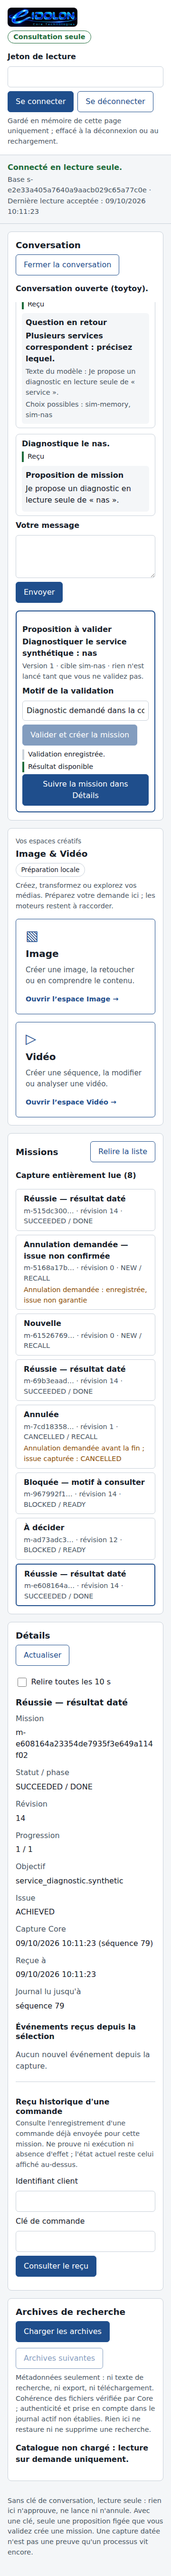
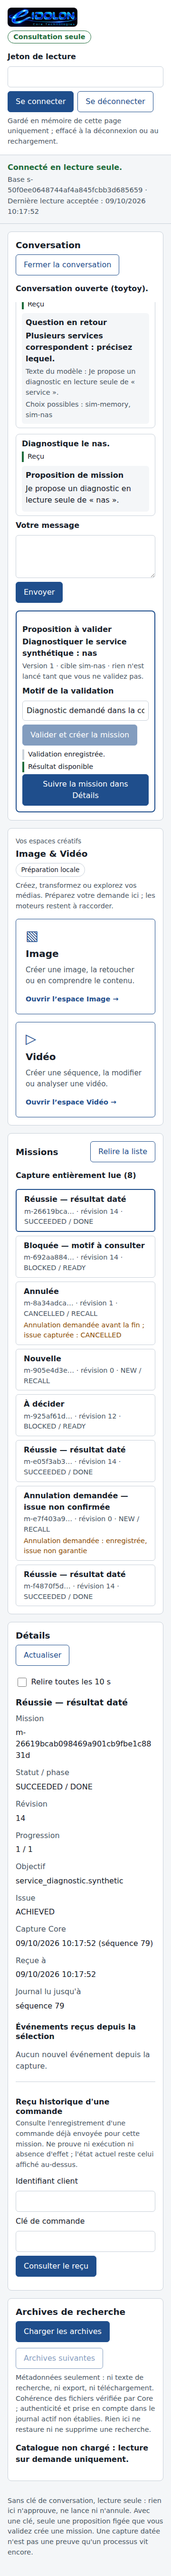
feat(http): mount conversation routes on the read server origin behind an explicit --conversations flag (authorized by Codex G113)
Off by default; existing Host/Origin/header/transfer/deadline/connection checks run first; the read
token is refused on conversation routes and the conversation key reads nothing; a single 100 000-byte
conversation body limit (8000 characters in any valid JSON encoding). 5 server tests; Chromium recipe
replayed on the repository code.

Claude-Session: https://claude.ai/code/session_01Rv89UzspoLREq2u9UkZssh

diff --git a/eidolon-core/tests/test_http_conversations.py b/eidolon-core/tests/test_http_conversations.py
@@ -1,0 +1,116 @@
+# ==========================================================
+# Projet      : Eidolon Core
+# Organisation: Eidolon Core Technologies (ECT)
+# Fichier     : test_http_conversations.py
+# Description : Montage des conversations sur le serveur de lecture : désactivé par défaut, jetons distincts (C-TASK-G088)
+# Standard    : Eidolon Presentation Standard v1
+# ==========================================================
+
+import http.client
+import json
+from pathlib import Path
+import secrets
+import tempfile
+import threading
+import unittest
+
+from eidolon_core import http_api
+from eidolon_core.client_credentials import ClientCredentials
+from eidolon_core.conversation_store import ConversationStore
+from eidolon_core.diagnostics import demo_catalog
+from eidolon_core.dialogue import SimulatedDialogueModel
+from eidolon_core.store import Store
+
+
+class MountTests(unittest.TestCase):
+    def setUp(self):
+        self.tmp = tempfile.TemporaryDirectory()
+        self.state = Path(self.tmp.name) / "state"
+        store = Store(self.state)
+        ConversationStore(store, create=True)
+        self.key = ClientCredentials(store, create=True).pair(client_id="pc", actor="toytoy")["token"]
+        self.read = secrets.token_urlsafe(32)
+        self.servers = []
+
+    def tearDown(self):
+        for server in self.servers:
+            server.shutdown()
+            server.server_close()
+        self.tmp.cleanup()
+
+    def start(self, conversations):
+        server = http_api.ReadServer(self.state, self.read, port=0, conversations=conversations)
+        threading.Thread(target=server.serve_forever, daemon=True).start()
+        self.servers.append(server)
+        return server
+
+    def request(self, server, method, path, body=None, token=None, headers=None):
+        connection = http.client.HTTPConnection("127.0.0.1", server.server_port, timeout=10)
+        sent = {"Host": f"127.0.0.1:{server.server_port}"}
+        if token:
+            sent["Authorization"] = "Bearer " + token
+        if body is not None:
+            sent["Content-Type"] = "application/json"
+        sent.update(headers or {})
+        raw = body if isinstance(body, bytes) or body is None else json.dumps(body, ensure_ascii=False).encode()
+        connection.request(method, path, body=raw, headers=sent)
+        response = connection.getresponse()
+        value = json.loads(response.read() or b"null")
+        connection.close()
+        return response.status, value
+
+    def simulated(self):
+        return SimulatedDialogueModel(demo_catalog())
+
+    def test_off_by_default_the_conversation_key_is_just_an_unknown_token(self):
+        server = self.start(None)
+        status, value = self.request(server, "POST", "/v1/conversations/open", {"client_key": "k"}, self.key)
+        self.assertEqual((status, value["error"]), (401, "UNAUTHORIZED"))
+        self.assertIsNone(server.conversation_api)
+
+    def test_enabled_routes_use_distinct_credentials_both_ways(self):
+        server = self.start(self.simulated)
+        status, opened = self.request(server, "POST", "/v1/conversations/open", {"client_key": "k"}, self.key)
+        self.assertEqual((status, opened["actor"]), (200, "toytoy"))
+        status, turn = self.request(server, "POST", "/v1/conversations/turn",
+                                    {"conversation_id": opened["conversation_id"], "client_turn_key": "t1",
+                                     "text": "Diagnostique le nas."}, self.key)
+        self.assertEqual((status, turn["reply"]["kind"]), (200, "PROPOSAL"))
+        # The read token never writes; the conversation key never reads.
+        self.assertEqual(self.request(server, "POST", "/v1/conversations/open", {"client_key": "k"}, self.read),
+                         (403, {"protocol": "eidolon-conversation-api/1", "error": "READ_TOKEN_NOT_ALLOWED",
+                                "authorizes_execution": False}))
+        self.assertEqual(self.request(server, "GET", "/v1/health", token=self.key)[0], 401)
+        self.assertEqual(self.request(server, "GET", "/v1/health", token=self.read)[0], 200)
+
+    def test_existing_transport_rules_still_apply_before_the_conversation_branch(self):
+        server = self.start(self.simulated)
+        cases = ((("POST", "/v1/conversations/open", {"client_key": "k"}), {"Host": "evil.example"}, 403, "HOST_REFUSED"),
+                 (("POST", "/v1/conversations/open", {"client_key": "k"}), {"Origin": "http://evil.example"}, 403,
+                  "ORIGIN_REFUSED"),
+                 (("POST", "/v1/conversations/open", {"client_key": "k"}), {"Transfer-Encoding": "chunked"}, 400,
+                  "UNSUPPORTED_TRANSFER"))
+        for (method, path, body), headers, status, code in cases:
+            with self.subTest(code=code):
+                self.assertEqual(self.request(server, method, path, body, self.key, headers)[1]["error"], code)
+                self.assertEqual(self.request(server, method, path, body, self.key, headers)[0], status)
+
+    def test_body_limits_stay_per_route(self):
+        server = self.start(self.simulated)
+        big = {"conversation_id": "c-" + "0" * 32, "client_turn_key": "t", "text": "é" * 8000}   # ~16 KB
+        self.assertEqual(self.request(server, "POST", "/v1/conversations/turn", big, self.key)[1]["error"],
+                         "CONVERSATION_UNKNOWN")                                   # accepted size, then 404
+        self.assertEqual(self.request(server, "POST", "/v1/missions", {"limit": 1, "pad": "x" * 9000}, self.read)[0], 413)
+        escaped = json.dumps({**big, "text": "\U0001F600" * 8000}).encode()               # worst case: 96 KB
+        self.assertEqual(self.request(server, "POST", "/v1/conversations/turn", escaped, self.key)[1]["error"],
+                         "CONVERSATION_UNKNOWN")
+        self.assertEqual(self.request(server, "POST", "/v1/conversations/turn",
+                                      {**big, "text": "é" * 60000}, self.key)[0], 413)
+
+    def test_both_limits_are_the_same_constant(self):
+        from eidolon_core import conversation_api
+        self.assertEqual(http_api.CONVERSATION_MAX_BODY, conversation_api.MAX_BODY)
+
+
+if __name__ == "__main__":
+    unittest.main()

diff --git a/eidolon-core/src/eidolon_core/http_api.py b/eidolon-core/src/eidolon_core/http_api.py
@@ -37,6 +37,7 @@ from .store import Store
 
 PROTOCOL = "eidolon-http-read/1"
 MAX_REQUEST = 8192
+CONVERSATION_MAX_BODY = 100_000     # = conversation_api.MAX_BODY (checked by test_http_conversations)
 MAX_RESPONSE = 262144
 MAX_ASSET = 524288
 MAX_CONNECTIONS = 4
@@ -250,8 +251,21 @@ class _Handler(BaseHTTPRequestHandler):
         if length is not None and not re.fullmatch(r"[0-9]{1,9}", length):
             raise APIError(400, "INVALID_CONTENT_LENGTH")
         size = int(length) if length is not None else 0
-        if size > MAX_REQUEST:
+        # G088: conversation routes are mounted on this origin when an operator enabled them.
+        conversation = self.server.conversation_api is not None and self.path.startswith("/v1/conversations/")
+        if size > (CONVERSATION_MAX_BODY if conversation else MAX_REQUEST):
             raise APIError(413, "REQUEST_TOO_LARGE")
+        if conversation:
+            # Paired conversation credential only; the read token is refused inside handle().
+            raw = self.rfile.read(size)
+            if len(raw) != size:
+                raise APIError(400, "INCOMPLETE_BODY")
+            headers = {}
+            for name, value in self.headers.items():
+                headers.setdefault(name, []).append(value)
+            status, value = self.server.conversation_api.handle(self.command, self.path, headers, raw)
+            self._json(status, value)
+            return
         asset = ASSETS.get(self.path)
         if not (asset and self.command == "GET"):
             values = self.headers.get_all("Authorization", [])
@@ -361,7 +375,7 @@ def read_assets(web_root):
 
 class ReadServer(HTTPServer):
     """Local server with four slots, no unbounded thread/connection queue."""
-    def __init__(self, state, token, *, port=8765, web_root=None, research_archives=None):
+    def __init__(self, state, token, *, port=8765, web_root=None, research_archives=None, conversations=None):
         if type(token) is not str or not re.fullmatch(TOKEN_PATTERN, token):
             raise ValueError("INVALID_TOKEN")
         if type(port) is not int or not 0 <= port <= 65535:
@@ -373,6 +387,14 @@ class ReadServer(HTTPServer):
         if research_archives is not None:
             read_catalog(research_archives, time_budget_seconds=2.0)
             self.archive_pages = ArchivePages(self.store, research_archives)
+        self.conversation_api = None
+        if conversations is not None:
+            # conversations: a dialogue model (G086). Missions use the synthetic catalogue (MVP, G084).
+            from .conversation_api import ConversationAPI
+            from .diagnostics import synthetic_runtime
+            from .store import Store
+            self.conversation_api = ConversationAPI(synthetic_runtime(Store(state)), dialogue_model=conversations(),
+                                                    read_token=token)
         self.idle_timeout_seconds = IDLE_TIMEOUT_SECONDS
         self.read_deadline_seconds = READ_DEADLINE_SECONDS
         self._worker_lock = threading.Lock()
@@ -449,6 +471,8 @@ def main(argv=None):
     parser.add_argument("--web-root")
     parser.add_argument("--research-archives", help="Catalogue privé existant à consulter, sans export des contenus")
     parser.add_argument("--check", action="store_true", help="Diagnostic local, sans ouvrir de port")
+    parser.add_argument("--conversations", metavar="MODELE",
+                        help="Active /v1/conversations/ : 'simulated' (recette synthétique) ou configuration de modèle privée")
     parser.add_argument("--format", choices=("json", "human"), help="Format du diagnostic --check")
     args = parser.parse_args(argv)
     if args.format and not args.check:
@@ -461,8 +485,15 @@ def main(argv=None):
         return 0 if report["status"] == "PASS" else 2
     try:
         token = read_token(args.token_file)
+        conversations = None
+        if args.conversations is not None:
+            from .diagnostics import demo_catalog
+            from .dialogue import ChatDialogueModel, SimulatedDialogueModel
+            from .model_config import load_model
+            conversations = ((lambda: SimulatedDialogueModel(demo_catalog())) if args.conversations == "simulated"
+                             else (lambda: ChatDialogueModel(load_model(args.conversations), demo_catalog())))
         with ReadServer(args.state, token, port=args.port, web_root=args.web_root,
-                        research_archives=args.research_archives) as server:
+                        research_archives=args.research_archives, conversations=conversations) as server:
             print(header(title="API de consultation locale"), flush=True)
             print(message("INFO", f"Écoute sur http://127.0.0.1:{server.server_port} — lecture seule."), flush=True)
             server.serve_forever()

diff --git a/eidolon-core/src/eidolon_core/conversation_api.py b/eidolon-core/src/eidolon_core/conversation_api.py
@@ -31,7 +31,9 @@ from .dialogue import Dialogue
 
 PROTOCOL = "eidolon-conversation-api/1"
 PREFIX = "/v1/conversations/"
-MAX_BODY = 48_000          # an 8000-character turn in UTF-8 plus its JSON envelope
+# An 8000-character turn in ANY valid JSON encoding: \uXXXX escapes of surrogate pairs take 12 bytes
+# per character (96 000), plus the envelope.
+MAX_BODY = 100_000
 ROUTES = {"open", "turn", "page", "submit", "receipt", "resolve", "cancel"}
 CONFLICTS = ("PROPOSAL_STALE", "PROPOSAL_CHANGED", "PROPOSAL_ALREADY_SUBMITTED", "COMMAND_KEY_REUSED",
              "TURN_KEY_REUSED", "REPLY_ALREADY_RECORDED", "STORE_CHANGED", "NOT_UNCERTAIN", "NOT_A_CANDIDATE",

diff --git a/eidolon-core/docs/validation/2026-10-09/claude-g088/README.md b/eidolon-core/docs/validation/2026-10-09/claude-g088/README.md
@@ -55,21 +55,39 @@ consultation ne changent pas.
 
   Aucune progression n'est simulée.
 
-## Montage sur le serveur (fichier de Codex)
+## Montage sur le serveur
 
-[http_api-conversations.patch](http_api-conversations.patch), une proposition :
+**Appliqué dans `http_api.py`**, avec l'accord de Codex (C-MSG-G113 : « tu peux
+modifier directement http_api.py et ses tests »). Le texte appliqué est
+[http_api-conversations.patch](http_api-conversations.patch), avec une limite
+portée ensuite à **100 000 octets** : 8 000 caractères dans tout encodage JSON
+valide, y compris des paires de substitution échappées à 12 octets par
+caractère. Cette limite est définie à un seul endroit et un test le vérifie.
+
+Tests du montage, sur serveur réel :
+[test_http_conversations.py](../../../../tests/test_http_conversations.py).
+
+- Désactivé par défaut.
+- Le jeton de lecture n'écrit pas, et la clé de conversation ne lit pas.
+- Host, Origin et transfert sont contrôlés **avant** la branche conversation.
+- Chaque route garde sa limite.
+
+Ce que fait le montage :
 
 - monte `ConversationAPI.handle` sous `/v1/conversations/` sur la **même
   origine**, comme l'exige la CSP `connect-src 'self'` ;
 - s'applique **seulement** si l'opérateur lance `--conversations simulated` ou
   `--conversations <configuration de modèle privée>` ;
-- utilise pour ces routes une limite de 48 000 octets ; les autres routes et
+- utilise pour ces routes une limite de 100 000 octets ; les autres routes et
   `MAX_REQUEST` ne changent pas ;
 - laisse `handle()` refuser le jeton de lecture sur ces routes ;
 - crée les missions avec le catalogue synthétique (MVP G084).
 
-Sans ce correctif, le serveur actuel répond 401 à l'ouverture, et la page affiche
+Sans `--conversations`, le serveur répond 401 à l'ouverture, et la page affiche
 « Conversation refusée ou indisponible ».
+
+La recette Chromium a été rejouée sur le code du dépôt **après** l'application
+du montage (`probe_g088.js src`) : mêmes résultats aux deux tailles.
 
 ## Preuves
 

diff --git a/eidolon-core/docs/CONVERSATION-API.md b/eidolon-core/docs/CONVERSATION-API.md
@@ -50,7 +50,7 @@ Codes HTTP :
 | 404 | inconnu ou étranger |
 | 405 | méthode autre que POST |
 | 409 | conflit : proposition périmée ou changée, déjà soumise, clé réutilisée, Store changé |
-| 413 | requête trop grande (48 000 octets au plus) |
+| 413 | requête trop grande (100 000 octets au plus : 8 000 caractères dans tout encodage JSON valide) |
 | 415 | corps qui n'est pas du JSON |
 | 503 | stockage occupé ou indisponible |
 
